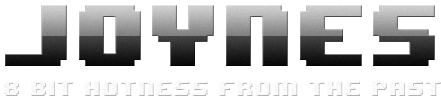
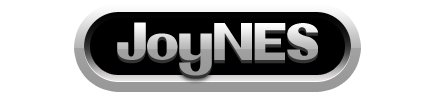
We have a brand new UI!
Drew new assets and coded them into the .ejs file. Hope this doesn't
break anything!

diff --git a/public/chad-code/css-holding.css b/public/chad-code/css-holding.css
@@ -1,0 +1,99 @@
+/**************************************************
+Share Link Thing!
+**************************************************/
+
+div#share-container {
+ background: #000;
+ opacity: .99;
+ width: 600px;
+ height: auto;
+ margin: 0 auto;
+ padding: 10px;
+ border-radius: 5px;
+
+}
+
+div#shareId {
+ background: #333;
+ border-radius: 5px;
+ width: 400px;
+ margin: 10px auto;
+ 
+}
+
+h3 {
+ font-family: helvetica, sans-serif;
+ font-weight: normal;
+ color: #111;
+ text-shadow: 0 1px 0 #999;
+ width: 160px;
+ margin: 0 auto;
+ line-height: 30px;
+}
+
+div#share-button-container {
+ background: #c0c0c0;
+ width: 405px;
+ height: 50px;
+
+}
+
+div#share-box {
+ background: #f9f9f9;
+ width: 230px;
+ float: left;
+ line-height: 30px;
+ margin-left: 5px;
+ margin-right: 5px;
+ margin-top: 10px;
+}
+
+div#share-box span {
+ padding: 0px 5px;
+ color: #555;
+ font-family: georgia, serif;
+ font-weight: normal;
+ font-style: italic;
+ font-size: .95em;
+}
+
+
+
+div#share-button {
+	-moz-box-shadow:inset 0px 1px 0px 0px #c2e2ff;
+	-webkit-box-shadow:inset 0px 1px 0px 0px #c2e2ff;
+	box-shadow:inset 0px 1px 0px 0px #c2e2ff;
+	background:-webkit-gradient( linear, left top, left bottom, color-stop(0.05, #7abdff), color-stop(1, #328eeb) );
+	background:-moz-linear-gradient( center top, #7abdff 5%, #328eeb 100% );
+	filter:progid:DXImageTransform.Microsoft.gradient(startColorstr='#7abdff', endColorstr='#328eeb');
+	background-color:#7abdff;
+	-moz-border-radius:6px;
+	-webkit-border-radius:6px;
+	border-radius:6px;
+	border:1px solid #264e8a;
+	display:inline-block;
+	color:#264e8a;
+	font-family:arial;
+	font-size:15px;
+	font-weight:bold;
+	padding:6px 24px;
+	text-decoration:none;
+	text-shadow:0px 1px 0px #a3c2ff;
+}.share-button:hover {
+	background:-webkit-gradient( linear, left top, left bottom, color-stop(0.05, #328eeb), color-stop(1, #7abdff) );
+	background:-moz-linear-gradient( center top, #328eeb 5%, #7abdff 100% );
+	filter:progid:DXImageTransform.Microsoft.gradient(startColorstr='#328eeb', endColorstr='#7abdff');
+	background-color:#328eeb;
+}.share-button:active {
+	position:relative;
+	top:1px;
+}
+
+div#share-button-highlight {
+ width: 158px;
+ height: 33px;
+ background: white;
+ float: left;
+ border-radius: 5px;
+ margin-top: 9px;
+}

diff --git a/public/chad-code/style.css b/public/chad-code/style.css
@@ -248,4 +248,132 @@ li#game4:hover {
 }*/
 
 /**************************************************
+Share Link Thing!
 **************************************************/
+
+div#share-container {
+ background: #000;
+ opacity: .99;
+ width: 600px;
+ height: auto;
+ margin: 0 auto;
+ padding: 10px;
+ border-radius: 5px;
+
+}
+
+div#shareId {
+ background: #333;
+ border-radius: 5px;
+ width: 400px;
+ margin: 0 auto;
+ 
+}
+
+h3 {
+ font-family: helvetica, sans-serif;
+ width: 160px;
+ margin: 0 auto;
+ line-height: 30px;
+}
+
+div#share-button-container {
+ background: #444;
+ width: 400px;
+ height: 50px;
+}
+
+div#share-box {
+ background: #999;
+ width: 230px;
+ float: left;
+ line-height: 30px;
+ margin-left: 10px;
+ margin-top: 5px;
+}
+
+div#share-button {
+ background: #ff8800;
+ border-radius: 5px;
+ border: 1px solid #292929;
+ width: 145px;
+ float: left;
+ box-shadow: 0 1px 0 #999;
+ margin: 5px 5px;
+}
+
+div#share-button span {
+ font-family: helvetica, sans-serif;
+ font-weight: bolder;
+ font-size: .8em;
+ text-shadow: 0px 1px 1px #292929;
+ width: 120px;
+ margin: 0 0 0 25px;
+ line-height: 30px;
+}
+
+/**************************************************
+Share Link Thing!
+**************************************************/
+
+div#share-container {
+ background: #000;
+ opacity: .99;
+ width: 600px;
+ height: auto;
+ margin: 0 auto;
+ padding: 10px;
+ border-radius: 5px;
+
+}
+
+div#shareId {
+ background: #333;
+ border-radius: 5px;
+ width: 400px;
+ margin: 0 auto;
+ 
+}
+
+h3 {
+ font-family: helvetica, sans-serif;
+ width: 160px;
+ margin: 0 auto;
+ line-height: 30px;
+}
+
+div#share-button-container {
+ background: #444;
+ width: 400px;
+ height: 50px;
+}
+
+div#share-box {
+ background: #999;
+ width: 230px;
+ float: left;
+ line-height: 30px;
+ margin-left: 10px;
+ margin-top: 5px;
+}
+
+div#share-button {
+ background: #ff8800;
+ border-radius: 5px;
+ border: 1px solid #292929;
+ width: 145px;
+ float: left;
+ box-shadow: 0 1px 0 #999;
+ margin: 5px 5px;
+}
+
+div#share-button span {
+ font-family: helvetica, sans-serif;
+ font-weight: bolder;
+ font-size: .8em;
+ text-shadow: 0px 1px 1px #292929;
+ width: 120px;
+ margin: 0 0 0 25px;
+ line-height: 30px;
+}
+

diff --git a/public/style.css b/public/style.css
@@ -230,4 +230,67 @@ li#game4:hover {
 }*/
 
 /**************************************************
+Share Link Thing!
 **************************************************/
+
+div#share-container {
+ background: #000;
+ opacity: .99;
+ width: 600px;
+ height: auto;
+ margin: 0 auto;
+ padding: 10px;
+ border-radius: 5px;
+
+}
+
+div#shareId {
+ background: #333;
+ border-radius: 5px;
+ width: 400px;
+ margin: 0 auto;
+ 
+}
+
+h3 {
+ font-family: helvetica, sans-serif;
+ width: 160px;
+ margin: 0 auto;
+ line-height: 30px;
+}
+
+div#share-button-container {
+ background: #444;
+ width: 400px;
+ height: 50px;
+}
+
+div#share-box {
+ background: #999;
+ width: 230px;
+ float: left;
+ line-height: 30px;
+ margin-left: 10px;
+ margin-top: 5px;
+}
+
+div#share-button {
+ background: #ff8800;
+ border-radius: 5px;
+ border: 1px solid #292929;
+ width: 145px;
+ float: left;
+ box-shadow: 0 1px 0 #999;
+ margin: 5px 5px;
+}
+
+div#share-button span {
+ font-family: helvetica, sans-serif;
+ font-weight: bolder;
+ font-size: .8em;
+ text-shadow: 0px 1px 1px #292929;
+ width: 120px;
+ margin: 0 0 0 25px;
+ line-height: 30px;
+}
+

diff --git a/public/chad-code/index.html b/public/chad-code/index.html
@@ -12,6 +12,25 @@
 			<div id="title">
 				<p>This is the title.</p>
 			</div>
+			
+			<div id="share-container">
+          <div id="shareId">
+
+            <h3>Share this game!</h3>
+            <div id="share-button-container">
+              
+              <div id="share-box">
+                <span>This will be the link to be copied</span>
+              </div>
+
+              <div id="share-button">
+                <span>Copy This Link</span>
+              </div>
+              
+            </div>
+            
+          </div> <!-- End 'Share This Game' -->
+			
 		</div>
 		<div id="container-tv">
 			<div id="tv">
